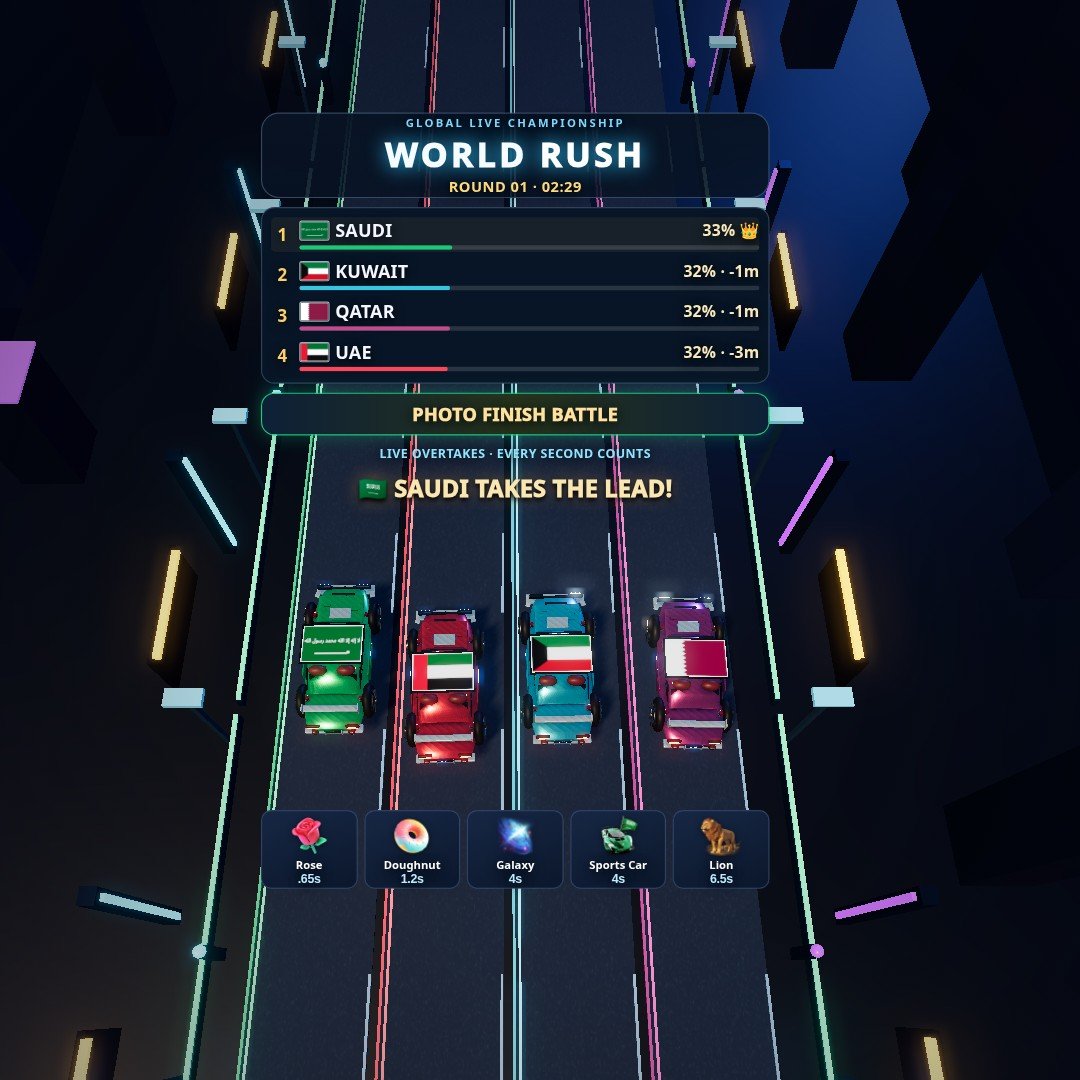
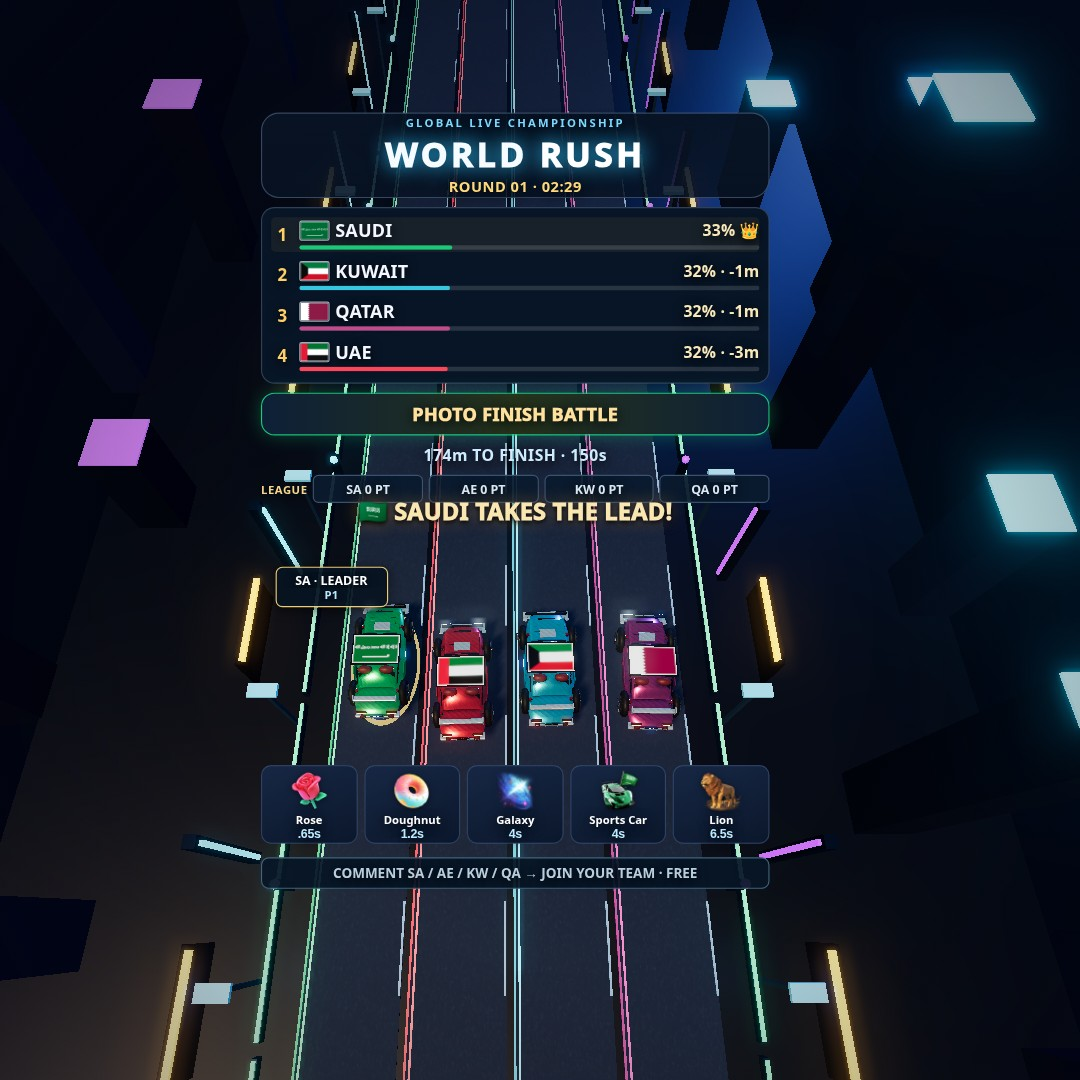
Add supporter turbo labels, league standings and race celebrations

diff --git a/index.html b/index.html
@@ -194,13 +194,44 @@ html.stream-source,html.stream-source body{overflow:hidden}
 #app.portrait-layout #giftMoment .giftArt{width:56px;height:56px}
 #app.portrait-layout #giftMoment .giftEmoji{font-size:46px}
 
-</style></head><body><main id="app" class="booting broadcast-safe portrait-layout"><div id="stage"></div><div id="bootScreen"><div class="bootLogo">WORLD <span>RUSH</span></div><div class="bootCaption">PREPARING THE START GRID</div></div><div id="overlay"></div><div id="hud"><div id="topStack"><header><small>GLOBAL LIVE CHAMPIONSHIP</small><h1>WORLD <span>RUSH</span></h1><div id="meta">R01 · 03:30</div></header><div id="rank"></div><div id="raceProgress"><div id="progressLabel"><strong id="distance">260m LEFT</strong><div id="battle">RACE STARTING</div><div id="countdown">LIVE RACE</div></div><div id="joinHint">COMMENT SA / AE / KW / QA TO JOIN A TEAM · FREE</div>
+
+/* Keep joining instructions visible while gifts, race status and results change. */
+#app.portrait-layout #joinHint{bottom:18px;min-height:28px;display:flex;align-items:center;justify-content:center;
+ padding:5px 8px;background:#081526ed;border:1px solid #42647d;border-radius:7px;font-size:12px}
+#app.portrait-layout #giftGuide{bottom:58px}
+#app.stream-mode #joinHint{bottom:170px;left:22px;right:66px}
+#app.stream-mode #giftGuide{bottom:210px}
+#app:not(.stream-mode) #joinHint{bottom:67px}
+#app:not(.stream-mode) #giftGuide{bottom:106px}
+#leagueBoard{display:flex;gap:5px;align-items:center;font-size:11px;color:#d8e9f4}
+#leagueBoard strong{color:#f6d78b;font-size:10px;letter-spacing:.5px}
+.leagueTeam{flex:1;text-align:center;background:#0b1b2eee;border:1px solid #3b536e;border-radius:5px;padding:4px 2px;font-variant-numeric:tabular-nums}
+.leagueTeam.first{border-color:#edca73;color:#ffe5a3}
+#app.portrait-layout #countdown{font-size:14px;font-weight:850;letter-spacing:.4px;color:#cfecff}
+#app.portrait-layout #countdown.urgent{color:#ffcf69;text-shadow:0 0 14px #ff8d3544}
+#winnerCard{position:absolute;top:438px;left:22px;right:66px;z-index:8;text-align:center;background:#081526f5;border:2px solid #f3d181;border-radius:12px;padding:9px;box-shadow:0 0 30px #ffbc4433}
+#winnerCard strong{display:block;font-size:23px;color:#ffe5a3;line-height:1.2}
+#winnerCard span{display:block;font-size:12px;color:#d0eaff;margin-top:3px}
+#carLabels{position:absolute;inset:0;pointer-events:none}
+.carLabel{position:absolute;width:100px;transform:translate(-50%,-100%);padding:4px 3px;border:1px solid var(--team-color);border-radius:6px;background:#071321ee;text-align:center;font-size:11px;line-height:1.25;box-shadow:0 2px 10px #0009}
+.carLabel strong,.carLabel span{display:block;overflow:hidden;text-overflow:ellipsis;white-space:nowrap}
+.carLabel strong{color:#fff;font-size:12px}
+.carLabel span{color:#b8e8ff;font-size:10px}
+.carLabel.leader{border-color:#edcb75;color:#ffe1a0}
+#app.stream-mode #event,#app.stream-mode #teamToast{top:46%}
+#app.stream-mode #giftMoment{top:450px;height:48px}
+#app.portrait-layout #giftMoment .giftArt{width:40px;height:40px}
+#app.stream-mode #teamToast{top:450px}
+#winnerCard{top:450px}
+.carLabel strong{font-size:11px}
+
+</style></head><body><main id="app" class="booting broadcast-safe portrait-layout"><div id="stage"></div><div id="bootScreen"><div class="bootLogo">WORLD <span>RUSH</span></div><div class="bootCaption">PREPARING THE START GRID</div></div><div id="overlay"></div><div id="hud"><div id="topStack"><header><small>GLOBAL LIVE CHAMPIONSHIP</small><h1>WORLD <span>RUSH</span></h1><div id="meta">R01 · 03:30</div></header><div id="rank"></div><div id="raceProgress"><div id="progressLabel"><strong id="distance">260m LEFT</strong><div id="battle">RACE STARTING</div><div id="countdown">LIVE RACE</div><div id="leagueBoard" aria-label="Current league points"></div></div><div id="joinHint">COMMENT SA / AE / KW / QA TO JOIN A TEAM · FREE</div>
 <div id="giftGuide" hidden aria-label="Hediye efektleri"><span class="giftBubble" data-gift-key="Rose"><span class="giftEmoji">🌹</span><img class="giftArt" hidden alt=""><span class="giftName">Rose</span><span class="giftPower">.65s</span></span>
 <span class="giftBubble" data-gift-key="Doughnut"><span class="giftEmoji">🍩</span><img class="giftArt" hidden alt=""><span class="giftName">Doughnut</span><span class="giftPower">1.2s</span></span>
 <span class="giftBubble" data-gift-key="Galaxy"><span class="giftEmoji">🌌</span><img class="giftArt" hidden alt=""><span class="giftName">Galaxy</span><span class="giftPower">4s</span></span>
 <span class="giftBubble" data-gift-key="Sports Car"><span class="giftEmoji">🏎</span><img class="giftArt" hidden alt=""><span class="giftName">Sports Car</span><span class="giftPower">4s</span></span>
 <span class="giftBubble" data-gift-key="Lion"><span class="giftEmoji">🦁</span><img class="giftArt" hidden alt=""><span class="giftName">Lion</span><span class="giftPower">6.5s</span></span></div>
-<div id="progressTrack"><div id="progressFill"></div><span class="trackCar" id="trackCar0" style="top:1px;background:#ff3656;color:#ff3656"></span><span class="trackCar" id="trackCar1" style="top:4px;background:#16cb77;color:#16cb77"></span><span class="trackCar" id="trackCar2" style="top:7px;background:#349aff;color:#349aff"></span><span class="trackCar" id="trackCar3" style="top:10px;background:#ffc12f;color:#ffc12f"></span><div id="finishMark"></div></div></div></div><div id="event" aria-live="polite"></div><div id="startCountdown" aria-live="polite" hidden>3</div><div id="comeback" hidden></div><div id="teamToast" hidden aria-live="polite"></div><div id="giftMoment" hidden aria-live="polite"></div></div>
+<div id="progressTrack"><div id="progressFill"></div><span class="trackCar" id="trackCar0" style="top:1px;background:#ff3656;color:#ff3656"></span><span class="trackCar" id="trackCar1" style="top:4px;background:#16cb77;color:#16cb77"></span><span class="trackCar" id="trackCar2" style="top:7px;background:#349aff;color:#349aff"></span><span class="trackCar" id="trackCar3" style="top:10px;background:#ffc12f;color:#ffc12f"></span><div id="finishMark"></div></div></div></div><div id="carLabels"></div><div id="winnerCard" hidden aria-live="polite"><strong></strong><span></span></div><div id="event" aria-live="polite"></div><div id="startCountdown" aria-live="polite" hidden>3</div><div id="comeback" hidden></div><div id="teamToast" hidden aria-live="polite"></div><div id="giftMoment" hidden aria-live="polite"></div></div>
 <div id="quickControls"><button class="btn" data-action="join">💬 JOIN</button><button class="btn" data-action="rose">🌹 ROSE</button><button class="btn" data-action="turbo">⚡ TURBO</button><button class="btn" data-action="mega">🌟 MEGA</button><button class="btn" data-action="cam">🎥 CAMERA</button></div>
 <button id="soundUnlock" type="button">🔊 SESİ AÇ / TAP FOR SOUND</button>
 <div id="bridgeBadge" hidden>LIVE SYNC: WAITING</div>
@@ -646,7 +677,7 @@ const soundEngine={
 };
 
 function flash(s){
- if(streamMode&&performance.now()<giftMomentUntil)return;
+ if(roundState==='results'||(streamMode&&performance.now()<giftMomentUntil))return;
  event.textContent=s;event.classList.add('on');event.classList.remove('prestige');
  flashUntil=performance.now()+1700;
 }
@@ -672,7 +703,7 @@ function applyLeagueRoster(){
  }
  selected=0;
  const joinHint=document.getElementById('joinHint');
- if(joinHint){joinHint.textContent='WHEN LIVE: COMMENT '+codes.join(' / ')+' TO JOIN · FREE';joinHint.classList.remove('following')}
+ if(joinHint){joinHint.textContent='COMMENT '+codes.join(' / ')+' → JOIN YOUR TEAM · FREE';joinHint.hidden=false}
  const label=document.getElementById('leagueStatus');
  if(label)label.textContent=leagueProfiles[leagueIndex].title+' · LOCAL TEST · NO REAL GIFT DATA';
 }
@@ -708,9 +739,14 @@ function updateLeagueStatus(){
 }
 
 function resetRound(){
+ document.getElementById('winnerCard').hidden=true;
  if(queuedLeagueChange||Date.now()>=leagueEndsAt)advanceLeague();
  round++;remaining=ROUND_SECONDS;roundState='countdown';countdownUntil=performance.now()+3500;shownStartDigit=0;winnerIndex=-1;leadIndex=-1;finishReason='';soundEngine.finalCued=false;
- cars.forEach(c=>{c.progress=0;c.boost=0;c.pace=0;c.burst=0;c.group.position.z=20;c.group.position.x=c.laneX;c.group.rotation.set(0,0,0)});
+ cars.forEach(car=>{
+  car.progress=0;car.boost=0;car.pace=0;car.burst=0;
+  car.group.position.set(car.laneX,0,20);car.group.rotation.set(0,0,0);
+  car.supporter='';car.supportAdded=0;car.overtakeUntil=0;
+ });
  previousRankOrder=[0,1,2,3];lastOvertakeMoment=performance.now();duelFocusUntil=0;duelFocusIndex=-1;
  flashUntil=0;event.classList.remove('on');
 }
@@ -720,9 +756,15 @@ function finishRound(now,byTime){
  winnerIndex=order[0].i;
  season[order[0].i]+=3;season[order[1].i]+=2;season[order[2].i]+=1;
  recordWorldResults(order);
- roundState='results';finishReason=byTime?'TIME LIMIT':'FINISH LINE';resultUntil=now+5200;
+ roundState='results';finishReason=byTime?'TIME LIMIT':'FINISH LINE';resultUntil=now+8000;
+ document.getElementById('giftMoment').hidden=true;giftMomentUntil=0;
+ document.getElementById('teamToast').hidden=true;
+ const winnerCard=document.getElementById('winnerCard');
+ winnerCard.querySelector('strong').textContent=codes[winnerIndex]+' · '+teams[winnerIndex]+' WINS!';
+ winnerCard.querySelector('span').textContent='+3 LEAGUE POINTS · '+season[winnerIndex]+' TOTAL · '+(worldRecords[codes[winnerIndex]]?.wins||1)+' WINS';
+ winnerCard.hidden=false;
  flash('🏆 '+flags[winnerIndex]+' '+teams[winnerIndex]+' WINS!');soundEngine.play('win');
- flashUntil=now+4200;
+ flashUntil=0;event.classList.remove('on');
 }
 function effect(type){
  const c=cars[selected];
@@ -734,6 +776,7 @@ function effect(type){
  const deficit=order[0].progress-c.progress;
  const comeback=deficit*METRES_PER_PERCENT>=12 && order[0].i!==selected;
  const boostTime=Math.min(10,c.boost+power*(comeback?1.25:1));
+ c.supportAdded=boostTime-c.boost;c.supporter='DEMO';
  c.boost=boostTime;c.burst=performance.now()+1800;
  flash(flags[selected]+' '+(comeback?'COMEBACK +25% BOOST!':({rose:'SPEED UP!',turbo:'TURBO ACTIVATED!',mega:'MEGA OVERDRIVE!'}[type])));soundEngine.play(type);
 }
@@ -757,6 +800,7 @@ const pendingUnassignedGifts=new Map();
 let liveFollowEvents=0,liveUniqueShares=0;
 let toastExpiresAt=0,lastJoinToastAt=0;
 function showTeamToast(message,teamCode){
+ if(roundState==='results')return;
  const node=document.getElementById('teamToast');if(!node)return;
  node.textContent=message;
  const c=countryLibrary[teamCode];node.style.borderColor='#'+(c?c.color:0x40d6ff).toString(16).padStart(6,'0');
@@ -791,7 +835,7 @@ function recordWorldResults(orderedCars){
  saveWorldRecords();
 }
 let connectedToLive=false,tiktokStreamOnline=false,liveSocket=null,liveReconnect=0;
-const pendingByCountry=Object.create(null);
+const pendingByCountry=Object.create(null),pendingSupporters=Object.create(null);
 
 // Artwork is decorative. Gift receipts and boosts come from received events.
 // Public TikTok CDN artwork listed by StreamToEarn. LIVE metadata takes precedence.
@@ -859,6 +903,7 @@ function addGiftArtwork(giftName,url){
 }
 function showGiftMoment(msg,team,tier,source,nick){
  const node=document.getElementById('giftMoment');if(!node)return;
+ if(roundState==='results'){addGiftArtwork(msg.giftName,msg.giftIconUrl);return}
  if(streamMode){
   event.classList.remove('on','prestige');
   document.getElementById('teamToast').hidden=true;
@@ -992,8 +1037,11 @@ function applyGift(msg){
  const countFactor=Math.min(2,1+Math.log2(quantity)/4),boost=tier.boost*countFactor*(comeback?1.25:1);
  if(source==='live')giftTotals[team]=(giftTotals[team]||0)+Math.round(points*quantity);
  updateLastGift((source==='live'?'LIVE':'TEST')+' '+nick+' · '+String(msg.giftName||'?')+' ×'+quantity+' · '+points+' pts → '+team+' · '+tier.label+' ('+tier.boost+'s base)');
- if(roundState!=='racing'){pendingByCountry[team]=Math.min(10,(pendingByCountry[team]||0)+boost);showGiftMoment(msg,team,{...tier,label:'NEXT RACE'},source,nick);return}
+ if(roundState!=='racing'){pendingSupporters[team]=(source==='test'?'DEMO · ':'')+nick;pendingByCountry[team]=Math.min(10,(pendingByCountry[team]||0)+boost);showGiftMoment(msg,team,{...tier,label:'NEXT RACE'},source,nick);return}
+ const added=Math.min(10-car.boost,boost);
  car.boost=Math.min(10,car.boost+boost);car.burst=performance.now()+2100;
+ car.supporter=(source==='test'?'DEMO · ':'')+nick;
+ car.supportAdded=added;
  if(tier.cinematic){
   spotlightIndex=i;spotlightUntil=performance.now()+(tier.cameraDuration||3300);
  }
@@ -1128,6 +1176,50 @@ function updateRank(){
  ?leagueProfiles[leagueIndex].id+' · RESULTS'
  :'ROUND '+String(round).padStart(2,'0')+' · '+String(Math.floor(remaining/60)).padStart(2,'0')+':'+String(Math.floor(remaining%60)).padStart(2,'0');
 }
+const leagueBoard=document.getElementById('leagueBoard');
+const leagueTitle=document.createElement('strong');leagueTitle.textContent='LEAGUE';leagueBoard.appendChild(leagueTitle);
+const leagueRows=cars.map((car,i)=>{
+ const node=document.createElement('span');node.className='leagueTeam';node.textContent=codes[i]+' 0 PT';leagueBoard.appendChild(node);return node;
+});
+const carLabels=cars.map(()=>{
+ const node=document.createElement('div');node.className='carLabel';node.hidden=true;
+ node.append(document.createElement('strong'),document.createElement('span'));
+ document.getElementById('carLabels').appendChild(node);return node;
+});
+const raceRings=cars.map(()=>{
+ const ring=new THREE.Mesh(new THREE.RingGeometry(1.3,1.43,40),new THREE.MeshBasicMaterial({color:0xffdd88,transparent:true,opacity:.7,side:THREE.DoubleSide,depthWrite:false}));
+ ring.rotation.x=-Math.PI/2;ring.scale.y=1.8;ring.visible=false;scene.add(ring);return ring;
+});
+const labelPoint=new THREE.Vector3();
+function updateCarPresentation(order,now){
+ const width=el.clientWidth,height=el.clientHeight,scale=Math.min(width/540,height/960);
+ for(const car of cars){
+  const leading=order[0]===car,boosting=roundState==='racing'&&car.boost>0;
+  const passing=roundState==='racing'&&now<(car.overtakeUntil||0);
+  const ring=raceRings[car.i];
+  ring.position.set(car.group.position.x,.035,car.group.position.z);
+  ring.visible=roundState!=='countdown'&&(boosting||leading);
+  ring.material.color.setHex(boosting?car.color:0xffd778);
+  ring.material.opacity=boosting?.65+Math.sin(now*.012)*.2:.55;
+  const node=carLabels[car.i];
+  node.hidden=roundState!=='racing'||!(boosting||leading||passing);
+  if(node.hidden)continue;
+  labelPoint.set(car.group.position.x,2.6,car.group.position.z-2.4).project(camera);
+  // Keep labels in lane order so simultaneous boosts remain readable.
+  const column=22+(car.i+.5)*113;
+  const x=THREE.MathUtils.clamp(270+labelPoint.x*width/(2*scale),column-6,column+6);
+  const y=THREE.MathUtils.clamp(480-labelPoint.y*height/(2*scale),540,665);
+  node.title=boosting?car.boost.toFixed(1)+'s remaining':'';
+  node.style.left=x+'px';node.style.top=y+'px';
+  node.style.setProperty('--team-color','#'+car.color.toString(16).padStart(6,'0'));
+  node.classList.toggle('leader',leading&&!boosting);
+  node.querySelector('strong').textContent=boosting?'+'+(car.supportAdded||0).toFixed(1)+'s TURBO':codes[car.i]+(passing?' · OVERTAKE':' · LEADER');
+  node.querySelector('span').textContent=boosting
+   ?codes[car.i]+' · '+(car.supporter||'DEMO')
+   :passing?'P'+(order.indexOf(car)+1):'P1';
+ }
+}
+
 const portraitArea={width:1,height:1};
 const carCorner=new THREE.Vector3();
 function resize(){
@@ -1160,7 +1252,7 @@ function framePortraitRace(){
  }
  // Fit the pack between the score panel and TikTok's comment area.
  const bounds=streamMode
-  ?{left:22,right:474,top:476,bottom:710}
+  ?{left:22,right:474,top:516,bottom:670}
   :{left:24.3,right:515.7,top:408,bottom:801.6};
  const targetWidth=(bounds.right-bounds.left)/270*portraitArea.width;
  const targetHeight=(bounds.bottom-bounds.top)/480*portraitArea.height;
@@ -1184,7 +1276,7 @@ function loop(now){
  if(roundState==='countdown'){
   const digit=Math.max(0,Math.ceil((countdownUntil-now)/1000));
   if(digit>0){countdownNode.hidden=false;countdownNode.textContent=String(Math.min(3,digit));if(shownStartDigit!==digit){shownStartDigit=digit;soundEngine.play('count')}}
-  else{countdownNode.hidden=true;roundState='racing';cars.forEach((car,i)=>{const saved=pendingByCountry[codes[i]]||0;if(saved){car.boost=Math.min(10,car.boost+saved);car.burst=performance.now()+1750;delete pendingByCountry[codes[i]]}});flash('GO!');soundEngine.play('go')}
+  else{countdownNode.hidden=true;roundState='racing';cars.forEach((car,i)=>{const saved=pendingByCountry[codes[i]]||0;if(saved){car.boost=Math.min(10,car.boost+saved);car.supportAdded=saved;car.supporter=pendingSupporters[codes[i]]||'';delete pendingSupporters[codes[i]];car.burst=performance.now()+1750;delete pendingByCountry[codes[i]]}});flash('GO!');soundEngine.play('go')}
  }else countdownNode.hidden=true;
  const racing=roundState==='racing';
  if(racing)remaining=Math.max(0,remaining-dt);
@@ -1232,9 +1324,9 @@ function loop(now){
   const climber=currentRank.find((index,place)=>place<previousRankOrder.indexOf(index));
   if(climber!==undefined&&now-lastOvertakeMoment>5500&&now>=spotlightUntil){
    lastOvertakeMoment=now;duelFocusIndex=climber;duelFocusUntil=now+2400;
-   const passing=cars[climber];passing.burst=now+1900;
+   const passing=cars[climber];passing.burst=now+1900;passing.overtakeUntil=now+1900;
    if(climber!==leader.i){
-    flash(codes[climber]+' '+teams[climber]+' MAKES A MOVE!');
+    flash(codes[climber]+' OVERTAKES · P'+(currentRank.indexOf(climber)+1));
    }
    soundEngine.play('lead');
    nextCameraSwitch=Math.max(nextCameraSwitch,now+3500);
@@ -1254,20 +1346,14 @@ function loop(now){
  uiTick+=dt;
  if(uiTick>=.12){
   uiTick=0;updateRank();
-  // Follow reminder uses the existing caption row, never obscures the cars.
   const joinHint=document.getElementById('joinHint');
-  if(joinHint){
-   const phase=(now/1000)%37;
-   const showFollow=roundState==='results'||(roundState==='racing'&&phase>=28&&phase<34);
-   const showGiftGuide=roundState==='racing'&&phase>=16&&phase<27;
-   const giftGuide=document.getElementById('giftGuide');
-   if(giftGuide)giftGuide.hidden=!showGiftGuide;
-   joinHint.hidden=showGiftGuide;
-   joinHint.classList.toggle('following',showFollow);
-   joinHint.textContent=showFollow
-    ?"FOLLOW FOR THE NEXT COUNTRY LEAGUE"
-    :'COMMENT '+codes.join(' / ')+' TO JOIN A TEAM · FREE';
-  }
+  joinHint.hidden=false;
+  joinHint.textContent='COMMENT '+codes.join(' / ')+' → JOIN YOUR TEAM · FREE';
+  document.getElementById('giftGuide').hidden=false;
+  leagueRows.forEach((node,i)=>{
+   node.textContent=codes[i]+' '+season[i]+' PT';
+   node.classList.toggle('first',season[i]>0&&season[i]===Math.max(...season));
+  });
   const battleEl=document.getElementById('battle');
   battleEl.textContent=roundState==='results'
    ?flags[winnerIndex]+' '+teams[winnerIndex]+' WINS'
@@ -1288,13 +1374,15 @@ function loop(now){
    comebackEl.textContent=flags[underdog.i]+' '+teams[underdog.i]+' '+deficit+'m BACK  ·  COMEBACK ×1.25';
    comebackEl.style.borderColor='#'+colors[underdog.i].toString(16).padStart(6,'0');
   }
-  const finalSprint=remainingMetres<=35;
+  const finalSprint=remainingMetres<=50;
   if(roundState==='racing'&&finalSprint&&!soundEngine.finalCued){soundEngine.finalCued=true;soundEngine.play('final')}
   const countdown=document.getElementById('countdown');
-  countdown.textContent=roundState==='results'?'CHAMPION'
-   :finalSprint?'FINAL 35m'
-   :remaining<15?'LAST '+Math.ceil(remaining)+'s'
-   :'LIVE OVERTAKES · EVERY SECOND COUNTS';
+  countdown.textContent=roundState==='results'
+   ?'NEXT RACE IN '+Math.max(1,Math.ceil((resultUntil-now)/1000))+'s · PICK YOUR TEAM'
+   :roundState==='countdown'?'260m RACE · READY TO START'
+   :finalSprint?'FINAL SPRINT · '+remainingMetres+'m TO FINISH'
+   :remaining<15?'LAST '+Math.ceil(remaining)+'s · '+remainingMetres+'m LEFT'
+   :remainingMetres+'m TO FINISH · '+Math.ceil(remaining)+'s';
   countdown.classList.toggle('urgent',roundState==='racing'&&(finalSprint||remaining<10));
  }
  const cameraTargets=[
@@ -1317,13 +1405,14 @@ function loop(now){
  cameraLook.lerp(new THREE.Vector3(...dynamicAim),smooth);
  camera.lookAt(cameraLook);
  framePortraitRace();
+ updateCarPresentation(order,now);
  if(now>flashUntil){event.classList.remove('on');event.classList.remove('prestige')}
  if(now>toastExpiresAt)document.getElementById('teamToast').hidden=true;
  if(now>giftMomentUntil){
   const moment=document.getElementById('giftMoment');
   moment.classList.remove('on');moment.hidden=true;
  }
- soundEngine.update(roundState==='racing',Math.max(0,RACE_METRES-leader.progress*METRES_PER_PERCENT)<=35,leader.progress);
+ soundEngine.update(roundState==='racing',Math.max(0,RACE_METRES-leader.progress*METRES_PER_PERCENT)<=50,leader.progress);
  renderer.toneMappingExposure=1.07+Math.sin(t*.35)*.02;
  bloom.strength=.18+(racing&&cars.some(c=>c.boost>0)?.065:0);
  composer.render();
@@ -1333,6 +1422,8 @@ function beginRace(){
  const app=document.getElementById('app');
  if(!app.classList.contains('booting'))return;
  applyLeagueRoster();cars.forEach(c=>c.group.position.z=20);updateRank();
+ document.getElementById('countdown').textContent='260m RACE · READY TO START';
+ document.getElementById('giftGuide').hidden=false;
  remaining=ROUND_SECONDS;roundState='countdown';countdownUntil=performance.now()+3500;
  last=performance.now();shownStartDigit=0;
  document.getElementById('bootScreen').hidden=true;app.classList.remove('booting');

diff --git a/YAYIN_KURULUMU.md b/YAYIN_KURULUMU.md
@@ -27,7 +27,7 @@ npm run test:live
 npm run test:live -- --resize-only
 ```
 
-Test kendi yerel HTTP sunucusunu açar. 1080×1920, 540×960 ve 1080×1080 kaynaklarda başlangıcı, yarışın ilerleyen bölümünü, Lion efektini, üç kamera modunu ve sonraki turu çalıştırır. Dört aracın ve HUD'un görünür sınırlarını ölçer. Görüntüler ve ölçümler `work/live-check/` içine yazılır. Yerel WebSocket olayları simüle edilir. Test hızlandırılmış oyun adımları ve gerçek WebGL ekran görüntüleri kullanır, FPS ölçümü yapmaz.
+Test kendi yerel HTTP sunucusunu açar. 1080×1920, 540×960 ve 1080×1080 kaynaklarda başlangıcı, yarışın ilerleyen bölümünü, Lion efektini, dört eşzamanlı turboyu, üç kamera modunu, son sprinti, kazanan ekranını ve sonraki tura aktarılan hediyeyi çalıştırır. Dört aracın ve HUD'un görünür sınırlarını ölçer. Görüntüler ve ölçümler `work/live-check/` içine yazılır. Yerel WebSocket olayları simüle edilir. Test hızlandırılmış oyun adımları ve gerçek WebGL ekran görüntüleri kullanır, FPS ölçümü yapmaz.
 
 Sistem Chromium'u kullanmak için `WORLD_RUSH_CHROMIUM` ortam değişkenine çalıştırılabilir dosya yolunu ver. Kaynaklar Three.js CDN'inden yüklenir. Otomasyonun Web Audio durumunu kontrol etmesi, Studio'nun sesi yakaladığını veya gerçek TikTok hediyelerinin ulaştığını doğrulamaz.
 
@@ -77,7 +77,7 @@ Gerçek hediye kataloğunu LIVE Gift ekranından kontrol et. Oyunda normal sayfa
 
 - iPhone Safari'de WORLD RUSH açıldığında oyun üzerinde **🔊 SESİ AÇ / TAP FOR SOUND** düğmesine **bir kez dokun**. Ses başlamasının ardından düğme gizlenir. Sesin duyulup duyulmadığını kısa onay tonuyla kontrol et. iPhone'un medya sesini de aç.
 - TikTok Mobile Gaming'den Safari'ye dönerken iOS Web Audio'yu askıya alabilir. Ses kesilirse Safari'deki ses düğmesine yeniden dokun. Ekran paylaşımında oyun sesinin izleyicilere de gittiğini ikinci hesaptan mutlaka dinleyerek doğrula; iOS/TikTok yakalama davranışı değişebilir.
-- Hediye kılavuzu artık **🌹 🍩 🌌 🏎 🦁** ikonlarıyla kısa süreli görünür; sıralama paneli yukarı taşındı. Gerçek TikTok LIVE bağlantısı kurulduğunda oyun **TikTok'un kendi hediye kataloglarından gelen görsel URL'lerini** kullanmayı dener. Katalogda görsel yoksa veya CDN erişilemiyorsa emoji görünür. Bu görseller gerçek bir hediye alınana kadar gelen hediye sayısı veya geliri temsil etmez.
+- Hediye kılavuzu TikTok CDN görselleriyle sürekli görünür; sıralama paneli yukarı taşındı. Gerçek TikTok LIVE bağlantısı kurulduğunda oyun **TikTok'un kendi hediye kataloglarından gelen görsel URL'lerini** kullanmayı dener. Katalogda görsel yoksa veya CDN erişilemiyorsa emoji görünür. Bu görseller gerçek bir hediye alınana kadar gelen hediye sayısı veya geliri temsil etmez.
 - Gerçek hediye geldiğinde görsel kart ve kısa efekt çıkar; manuel **TEST** düğmeleri yalnızca simülasyondur.
 
 ## Önemli teknik sınırlar
@@ -93,3 +93,11 @@ Gerçek hediye kataloğunu LIVE Gift ekranından kontrol et. Oyunda normal sayfa
 Ekrandaki eski @kullanıcı adı kaldırıldı. Köprü başlatılırken mevcut TikTok kullanıcı adını gir. Boş bırakıldığında eski hesaba bağlanmayı denemez.
 
 Pist kenarlarındaki neon bariyerler, sütunlar ve dış yapılar geri açıldı. Büyük hediye kartları Rose, Doughnut, Galaxy, Sports Car ve Lion görsellerini doğrudan TikTok CDN'inden yükler. Kaynak ve 106 bölge karşılaştırması [hediye görsel raporunda](screenshots/gift-artwork-sources.md) bulunur.
+
+## Yarışın yeni izleyici akışı
+
+- Yorumla ülke seçme açıklaması sürekli görünür. Katılım ücretsizdir.
+- Hediye geldiğinde ilgili aracın üzerinde destekçi adı ve gerçekten eklenen turbo süresi görünür. Dört takımın aynı anda turbo alması desteklenir.
+- Altın halka lideri, takım rengindeki halka aktif turboyu gösterir. Geçiş bildirimi gerçek sıralama değişiminden gelir.
+- Son 50 metrede FINAL SPRINT görünür. Finişte kazanan kartı, lig puanı ve 8 saniyelik sonraki yarış sayacı gösterilir.
+- Lig puanları ilk üçe 3/2/1 olarak verilir ve lig değişiminde sıfırlanır. Sonuç ekranında gelen hediyeler aynı ülkenin sonraki yarışına aktarılır.

diff --git a/screenshots/live-validation.md b/screenshots/live-validation.md
@@ -4,18 +4,21 @@
 
 | Kontrol | Sonuç |
 | --- | --- |
-| 1080×1920, 540×960 ve 1080×1080 | Her boyutta 7 görüntü kontrolü geçti |
+| 1080×1920, 540×960 ve 1080×1080 | Her boyutta 10 görüntü kontrolü geçti |
 | Başlangıç ve ilerleyen yarış | Dört araç, bayraklar ve skor satırları görünür |
 | Üç kamera modu | Araç sınırları tanımlanan güvenli alan içinde |
 | Lion kartı | Simüle WebSocket hediyesi doğru takıma boost verdi |
 | Tekrarlanan hediye kimliği | Puan ikinci kez eklenmedi |
 | Takım seçmemiş izleyicinin hediyesi | Rastgele takıma atanmadı |
-| Yeni tur | Oyun otomatik olarak sonraki tura geçti |
+| Dört eşzamanlı hediye | Dört araçta ayrı destekçi ve turbo etiketi |
+| Son 50 metre | FINAL SPRINT ve kalan mesafe gösterildi |
+| Finiş ve lig | Kazanan kartı, 3/2/1 puan ve sonraki yarış sayacı doğrulandı |
+| Yeni tur | Sonuç ekranındaki hediye, doğru destekçi adıyla sonraki yarışa aktarıldı |
 | 540×960 → 1080×1080 → 1080×1920 → 540×960 | Aynı açık kaynakta yeniden boyutlandırma geçti |
 | Ses motoru | Otomatik oynatma izni verilen tarayıcıda AudioContext running |
 | JavaScript | Testlerde sayfa hatası oluşmadı |
 
-Görüntüler doğrudan tarayıcı ekran görüntüleridir. Çizim tamponu boyutu kaynak çözünürlüğüyle aynı ölçüldü. HUD ve araç kutuları mantıksal 540×960 koordinatlara dönüştürülüp sınır denetiminden geçirildi. Test edilen kamera ve yarış durumlarında araç genişlikleri yaklaşık 56–118 mantıksal piksel arasındaydı.
+Görüntüler doğrudan tarayıcı ekran görüntüleridir. Çizim tamponu boyutu kaynak çözünürlüğüyle aynı ölçüldü. HUD ve araç kutuları mantıksal 540×960 koordinatlara dönüştürülüp sınır denetiminden geçirildi. Test edilen kamera ve yarış durumlarında araç genişlikleri yaklaşık 38–95 mantıksal piksel arasındaydı.
 
 Test hızlandırılmış oyun adımlarıyla gerçek oyun mantığını çalıştırır. Ara karelerde GPU çizimi atlanır, kontrol karelerinde gerçek WebGL çıktısı kaydedilir. WebSocket olayları test tarafından üretilir.
 
@@ -24,6 +27,9 @@ Test hızlandırılmış oyun adımlarıyla gerçek oyun mantığını çalışt
 - [1080×1920 başlangıç](live-start-1080x1920.jpg)
 - [1080×1920 yarış](world-rush-1080x1920.jpg)
 - [1080×1920 simüle hediye](live-gift-1080x1920.jpg)
+- [1080×1920 dört turbo](live-four-boosts-1080x1920.jpg)
+- [1080×1920 son sprint](live-sprint-1080x1920.jpg)
+- [1080×1920 kazanan](live-winner-1080x1920.jpg)
 - [540×960 yarış](live-540x960.jpg)
 - [1080×1080 kaynak](live-square-1080x1080.jpg)
 
@@ -36,3 +42,5 @@ Repo kökünde `npm ci`, `npx playwright install chromium`, `npm run test:live` 
 Kullanıcının TikTok LIVE Studio sahnesine erişilmedi. Studio'nun gerçek dönüşümü, kişiye özel TikTok katmanları, gerçek yayın sesinin yakalanması ve gerçek TikTok hediye bağlantısı burada doğrulanamadı. Bu testler 60 FPS sonucunu ölçmez. Güvenli alanlar üstte 100, sağda 66, altta 170 mantıksal piksel varsayımıyla düzenlendi. Studio önizlemesiyle kontrol edilmelidir. Windows komut dosyaları Linux ortamında çalıştırılmadı.
 
 Son görsel güncellemesinde özgün TikTok CDN resimlerinin beş kartta yüklenmesi de otomatik kontrol edildi. Neon yan süslemeleri ve büyütülmüş hediye kartlarıyla üç çözünürlükte testler tekrar çalıştırıldı.
+
+Katılım açıklaması ve hediye kılavuzu sürekli görünür. Araç altındaki halka lideri veya aktif turboyu belirtir. Turbo etiketindeki süre son olayın gerçekten eklediği süredir; 10 saniyelik toplam sınırı uygulanır. Lig puanları mevcut lig boyunca birikir; lig değişiminde sıfırlanır. Yerel testlerin destekçi adı DEMO olarak işaretlenir.
